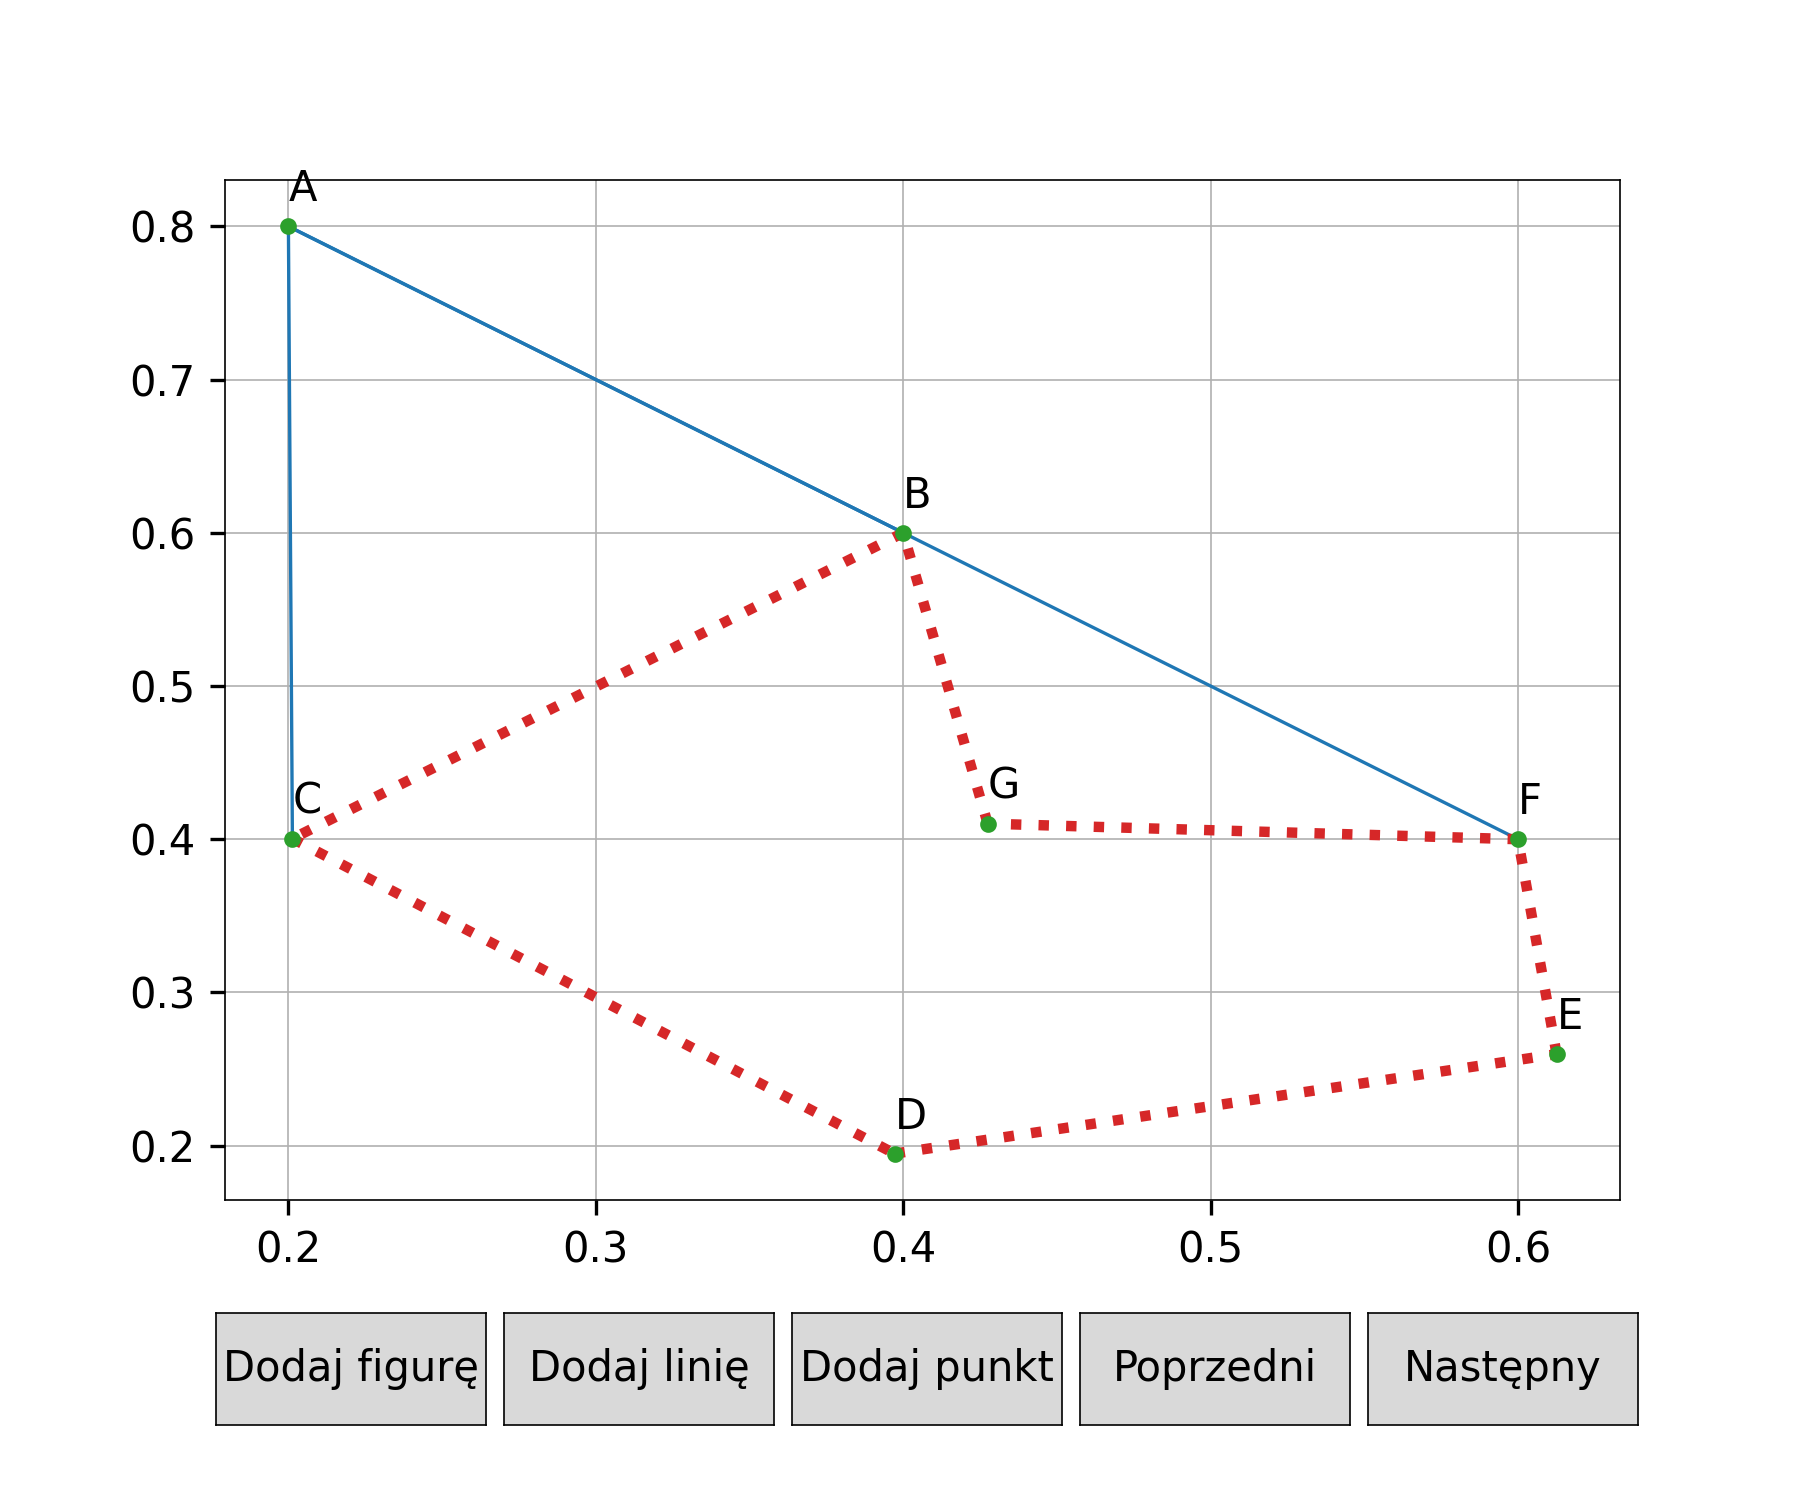
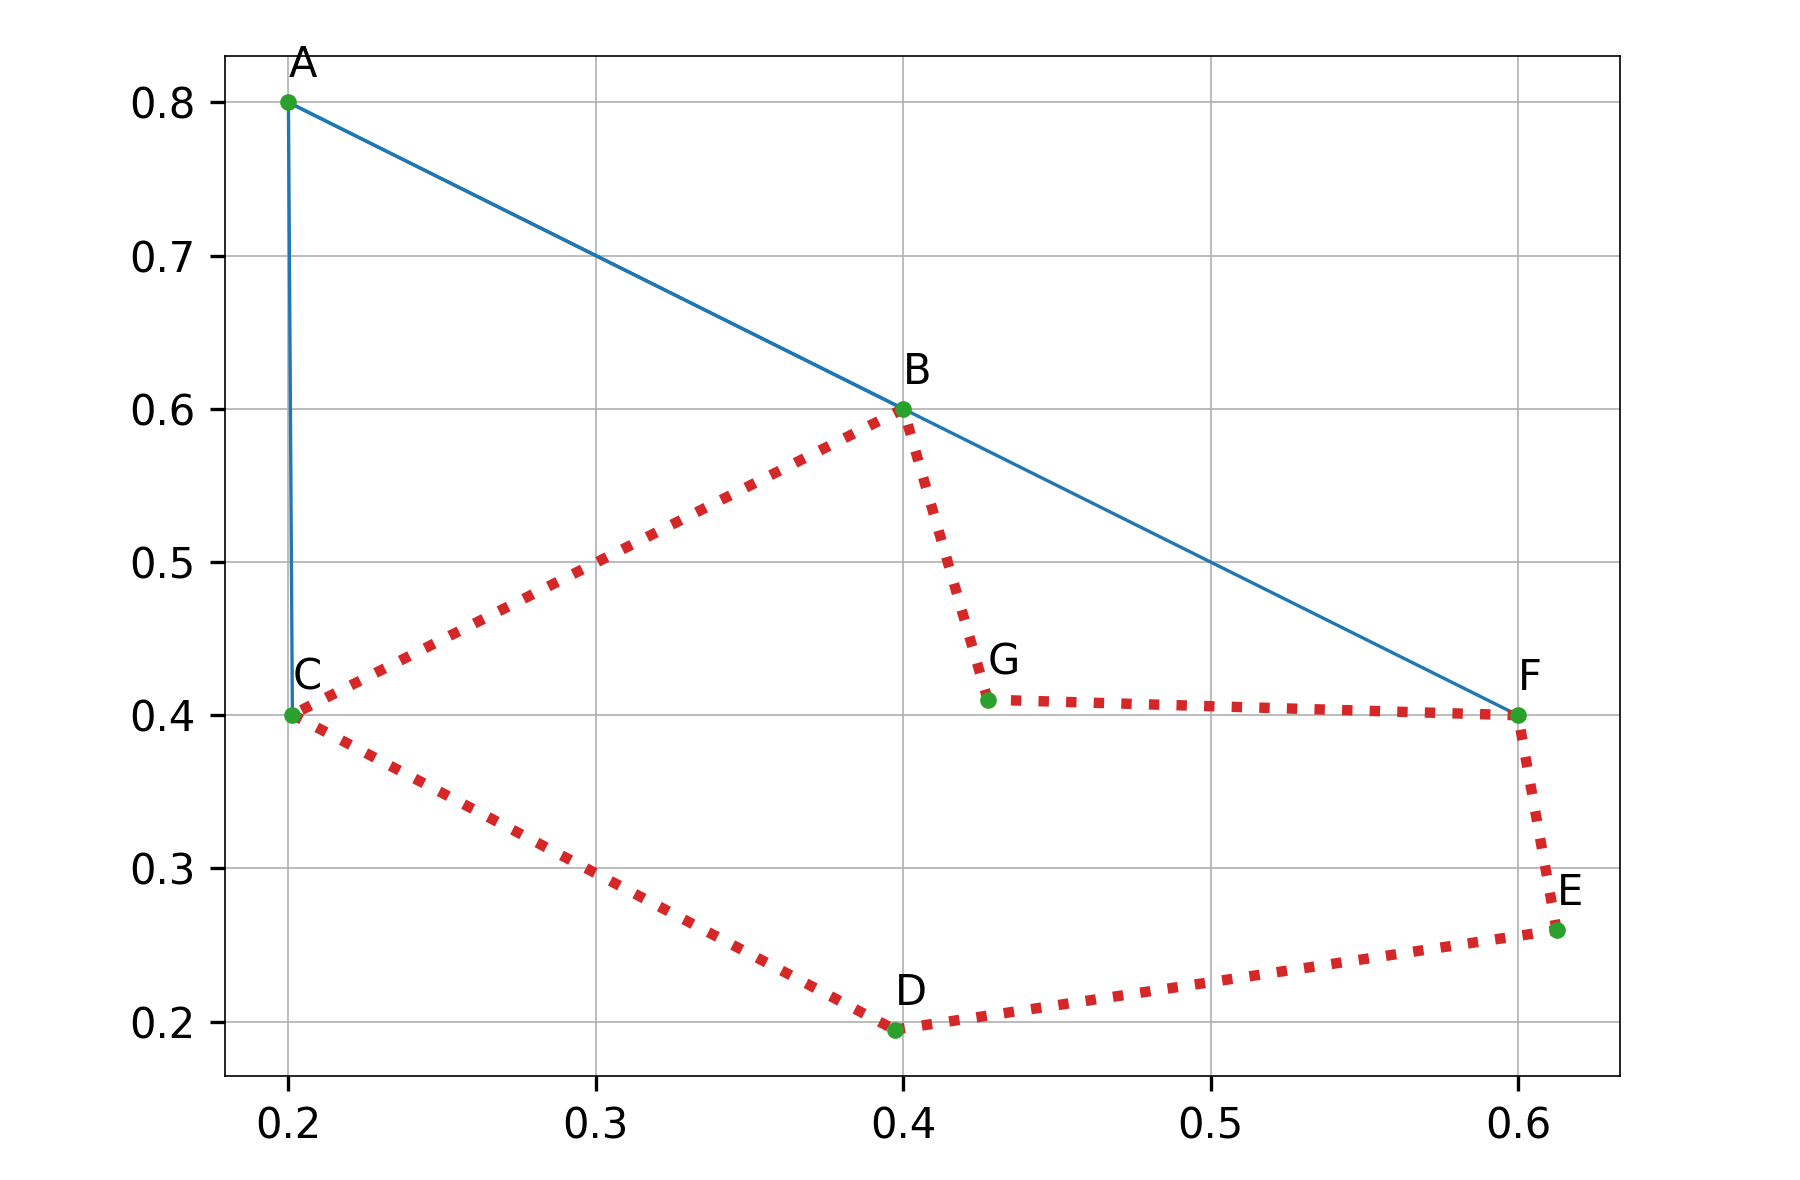
updated sprawkooo

diff --git a/visibility_graph_project/docs/geom-proj-spr.tex b/visibility_graph_project/docs/geom-proj-spr.tex
@@ -429,22 +429,22 @@
 		
 		\subsection{Testy}
 					
-			\imgcustomsize{test1.png}{Przypadek testowy}{0.6}
+			\imgcustomsize{test1.png}{Przypadek testowy}{0.75}
 				Wierzchołek $ F $ jest widoczny, ponieważ $ B $ jest widoczny i miotły nie przecinają żadne krawędzie na odcinku $ BF $ oraz wektor $ \overrightarrow{FB} $ nie jest skierowany do wnętrza figury.
 			
-			\imgcustomsize{test2.png}{Przypadek testowy}{0.6}
+			\imgcustomsize{test2.png}{Przypadek testowy}{0.75}
 				Tutaj wektor $ FB $ jest skierowany do wnętrza figury więc punkt $ F $ jest niewidoczny (przerywana linia ma za zadanie tylko podkreślić fakt, że punkty $ B $ i $ F $ są współliniowe).
 			
-			\imgcustomsize{test3.png}{Przypadek testowy}{0.6}
+			\imgcustomsize{test3.png}{Przypadek testowy}{0.75}
 				Punkt $ E $ jest widoczny, ponieważ $ B $ jest widoczny i należą do różnych figur oraz pomiędzy nimi nie ma żadnej krawędzi przecinającej odcinek $ BE $.
 			
-			\imgcustomsize{test4.png}{Przypadek testowy}{0.6}
+			\imgcustomsize{test4.png}{Przypadek testowy}{0.75}
 				Tutaj analogicznie jak wyżej, ale $ BH $ jest przecięty dwoma odcinkami wiec $ H $ nie będzie widoczny.
 			
-			\imgcustomsize{test5.png}{Przypadek testowy}{0.6}
+			\imgcustomsize{test5.png}{Przypadek testowy}{0.75}
 				Jeżeli $ E $ jest niewidoczny to nie ma sensu badać widoczności $ H $, ponieważ jest on dalej od punktu zaczepienia miotły (punktu $ A $).
 			
-			\imgcustomsize{test6.png}{Przypadek testowy}{0.6}
+			\imgcustomsize{test6.png}{Przypadek testowy}{0.75}
 				Wierzchołek $ E $ widoczny, gdy miotła pokrywa się z krawędzią $ BC $.
 		
 	\section{Bibliografia}
